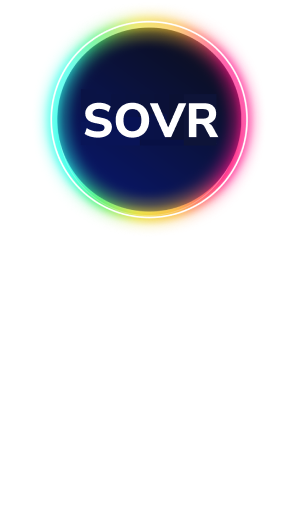
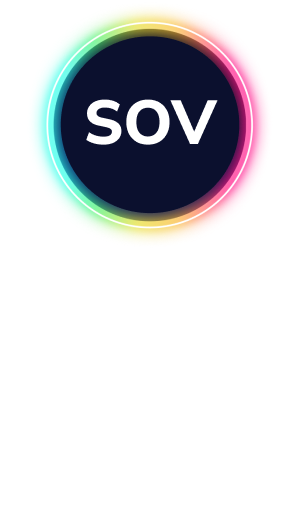
Update Coin immages

Changed region(s): [[0.1212, 0.0297, 0.9091, 0.4752]]

diff --git a/index.html b/index.html
@@ -120,7 +120,7 @@
 </div>
 <div class="row text-center align-middle">
     <div id="basket-comp"class="col-lg-6">
-      <img class="basket-allocation-image" src="images/ideal-basket-composition.png" alt="" height="588px">
+      <img class="basket-allocation-image" src="images/Ideal-basket-composition.png" alt="" height="588px">
     </div>
     <div class= "col-lg-6 text-center align-middle" style="padding:0 5% 0 5%;">
       <h5 class="comp-header" style="padding-bottom:32px;">
@@ -227,7 +227,7 @@
 <!-- Token Cards -->
 <div id="token-explainer-feature-row" class="row">
   <div id="token-explainer-container" class="col-lg-6 text-center"> 
-    <img class="SVR-token-image" src="images/SVRcoin.png" alt="SVR Token">
+    <img class="SVR-token-image" src="images/SOVcoin.png" alt="SVR Token">
     <div class="token-cards-container">
       <h3>
         Liquidity providers receive the SOV store-of-value coin backed 1:1 by demonstrably collateralized asset tokens.
